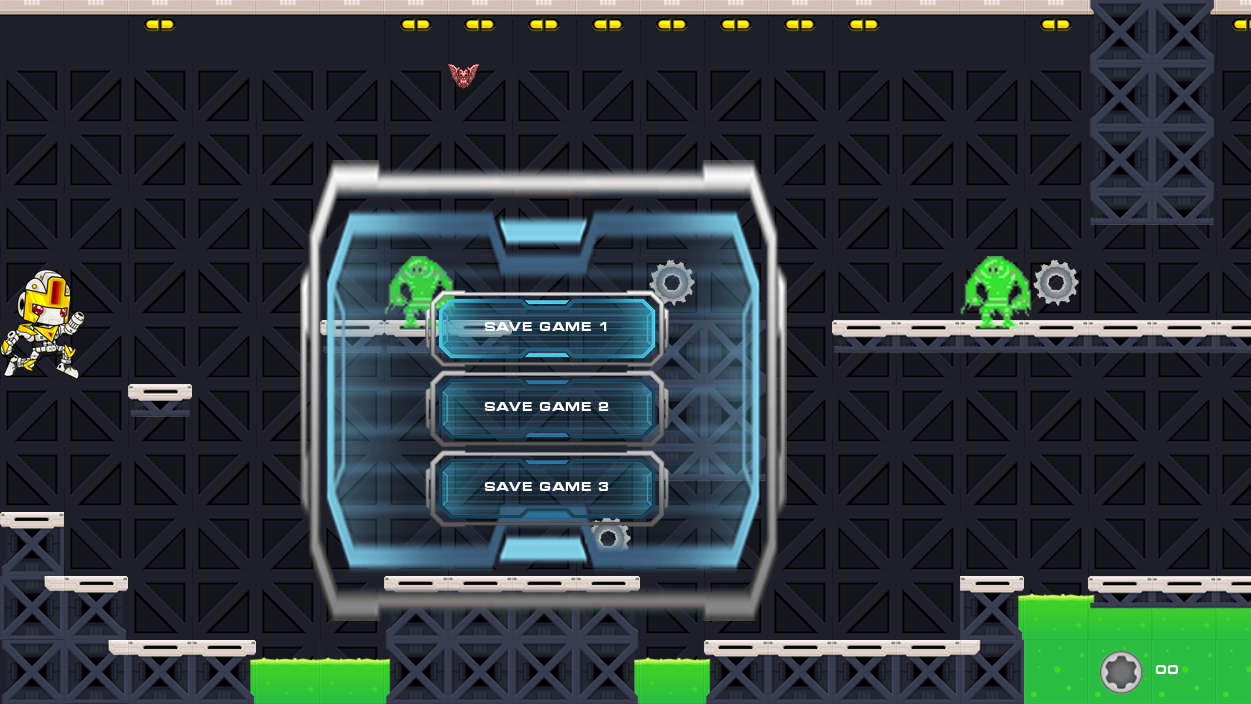
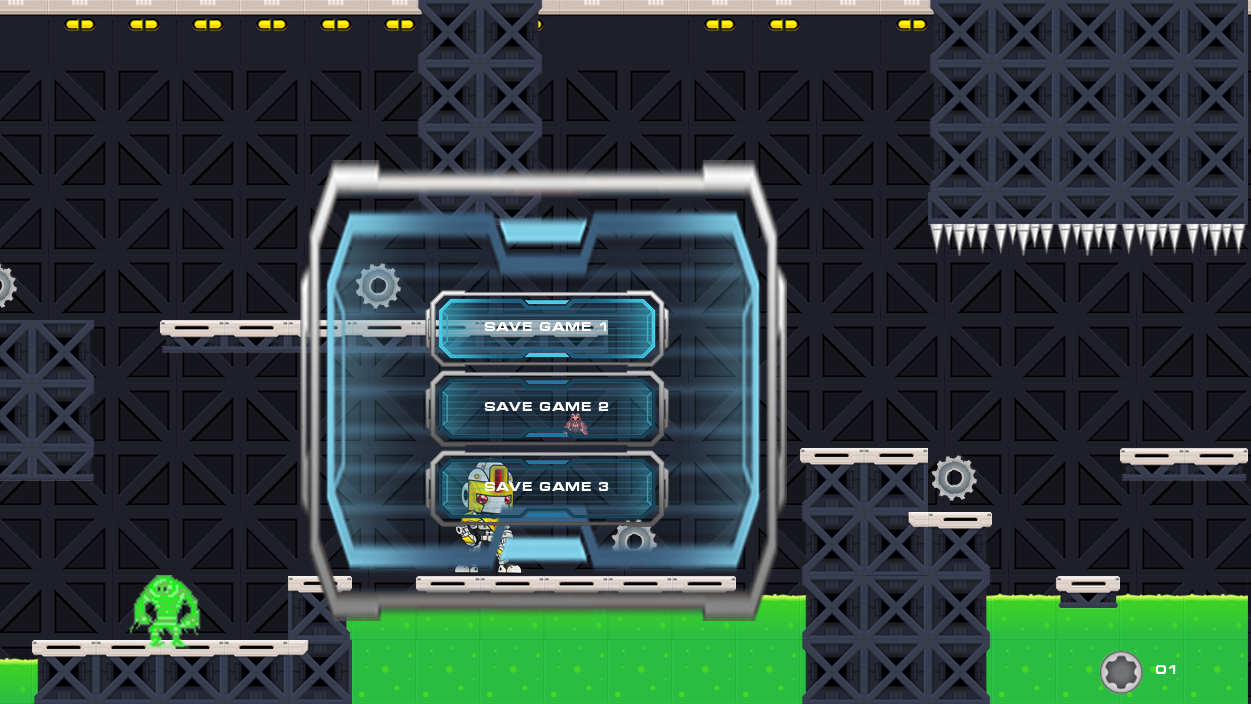
Load menu in main menu

diff --git a/Motor2D/j1Menu.cpp b/Motor2D/j1Menu.cpp
@@ -151,6 +151,13 @@ bool j1Menu::PostUpdate()
 		can_quit = true;
 	}
 
+	else if (load_But_bool) {
+		load_But_bool = false;
+		CleanUI();
+		CreateLoading();
+		can_quit = false;
+	}
+
 	return ret;
 }
 
@@ -230,7 +237,7 @@ void j1Menu::CreateMenu() {
 
 
 	Title_ui = (Image*)App->gui->AdUIElement(-200, 0, IMAGE);
-	Title_ui->LoadUI_Image("textures/Title.png", 0.33f);
+	Title_ui->LoadUI_Image("textures/Title.png", 1);
 	App->gui_animation->MoveToOrigin(Title_ui);
 
 	Login = (Button*)App->gui->AdUIElement(500, 700, BUTTON);//y = 400
@@ -312,6 +319,44 @@ void j1Menu::CreateSettings() {
 
 	
 	Return = (Button*)App->gui->AdUIElement(900, 600, BUTTON); 
+	Return->Define(App->gui->button_idle, App->gui->button_hovering, App->gui->button_onclick, "RETURN");
+	Return->TAB = -1;
+	Return->AddListener(this);
+
+}
+
+void j1Menu::CreateLoading() {
+
+
+	Load1 = (Button*)App->gui->AdUIElement(650, 150, BUTTON);
+	Load1->Define(App->gui->button_idle, App->gui->button_hovering, App->gui->button_onclick, "LOAD GAME 1");
+	Load1->TAB = -1;
+	Load1->AddListener(this);
+
+	Game1 = (Image*)App->gui->AdUIElement(300, 115, IMAGE);
+	Game1->LoadUI_Image("savegame/savegame0-screenshot.png", 0.2f);
+	
+
+
+	Load2 = (Button*)App->gui->AdUIElement(650, 300, BUTTON);
+	Load2->Define(App->gui->button_idle, App->gui->button_hovering, App->gui->button_onclick, "LOAD GAME 2");
+	Load2->TAB = -1;
+	Load2->AddListener(this);
+
+	Game2 = (Image*)App->gui->AdUIElement(300, 265, IMAGE);
+	Game2->LoadUI_Image("savegame/savegame1-screenshot.png", 0.2f);
+
+
+	Load3 = (Button*)App->gui->AdUIElement(650, 450, BUTTON);
+	Load3->Define(App->gui->button_idle, App->gui->button_hovering, App->gui->button_onclick, "LOAD GAME 3");
+	Load3->TAB = -1;
+	Load3->AddListener(this);
+
+	Game3 = (Image*)App->gui->AdUIElement(300, 415, IMAGE);
+	Game3->LoadUI_Image("savegame/savegame2-screenshot.png", 0.2f);
+	
+
+	Return = (Button*)App->gui->AdUIElement(900, 600, BUTTON);
 	Return->Define(App->gui->button_idle, App->gui->button_hovering, App->gui->button_onclick, "RETURN");
 	Return->TAB = -1;
 	Return->AddListener(this);

diff --git a/Motor2D/j1Render.h b/Motor2D/j1Render.h
@@ -35,7 +35,7 @@ public:
 	// Blit
 	void SetViewPort(const SDL_Rect& rect);
 	void ResetViewPort();
-	bool Blit(SDL_Texture* texture, int x, int y, const SDL_Rect* section = NULL, float speed = 1.0f, SDL_RendererFlip flip = SDL_FLIP_NONE,double angle = 0,float alpha = 255, int pivot_x = INT_MAX, int pivot_y = INT_MAX) const;
+	bool Blit(SDL_Texture* texture, int x, int y, const SDL_Rect* section = NULL, float speed = 1.0f, SDL_RendererFlip flip = SDL_FLIP_NONE,double angle = 0,float scale = -1, float alpha = 255, int pivot_x = INT_MAX, int pivot_y = INT_MAX) const;
 	bool DrawQuad(const SDL_Rect& rect, Uint8 r, Uint8 g, Uint8 b, Uint8 a = 255, bool filled = true, bool use_camera = true) const;
 	bool DrawLine(int x1, int y1, int x2, int y2, Uint8 r, Uint8 g, Uint8 b, Uint8 a = 255, bool use_camera = true) const;
 	bool DrawCircle(int x1, int y1, int redius, Uint8 r, Uint8 g, Uint8 b, Uint8 a = 255, bool use_camera = true) const;

diff --git a/Motor2D/j1Render.cpp b/Motor2D/j1Render.cpp
@@ -127,10 +127,15 @@ void j1Render::ResetViewPort()
 }
 
 // Blit to screen
-bool j1Render::Blit(SDL_Texture* texture, int x, int y, const SDL_Rect* section, float speed, SDL_RendererFlip flip , double angle, float alpha, int pivot_x, int pivot_y) const
+bool j1Render::Blit(SDL_Texture* texture, int x, int y, const SDL_Rect* section, float speed, SDL_RendererFlip flip , double angle,float scal, float alpha, int pivot_x, int pivot_y) const
 {
 	bool ret = true;
-	float scale = App->win->GetScale();
+	float scale = 0;
+	if (scal == -1)
+		scale = App->win->GetScale();
+
+	else
+		scale = scal;
 
 	SDL_SetTextureAlphaMod(texture, alpha);
 

diff --git a/Motor2D/UI_Image.cpp b/Motor2D/UI_Image.cpp
@@ -20,9 +20,9 @@ bool Image::Update(float dt) {
 
 	if (draw) {
 		if (using_atlas)
-			App->render->Blit(atlas, position.x, position.y, &image, 0);
+			App->render->Blit(atlas, position.x, position.y, &image, 0, SDL_FLIP_NONE, 0, scale);
 		else
-			App->render->Blit(texture, position.x, position.y, &image, 0);
+			App->render->Blit(texture, position.x, position.y, &image, 0, SDL_FLIP_NONE, 0, scale);
 	}
 	if (App->menu->debug) {
 		debug_UI.x = original_pos.x;

diff --git a/Motor2D/j1Menu.h b/Motor2D/j1Menu.h
@@ -45,6 +45,7 @@ public:
 	void CreateCredits();
 	void CleanUI();
 	void SetUpMenu();
+	void CreateLoading();
 
 	void GUICallback(UI_Element* element);
 
@@ -85,6 +86,14 @@ private:
 	Button* Load_But = nullptr;
 
 	Button* Return = nullptr;
+
+	Button* Load1 = nullptr;
+	Button* Load2 = nullptr;
+	Button* Load3 = nullptr;
+
+	Image* Game1 = nullptr;
+	Image* Game2 = nullptr;
+	Image* Game3 = nullptr;
 
 	Window* window = nullptr;
 
